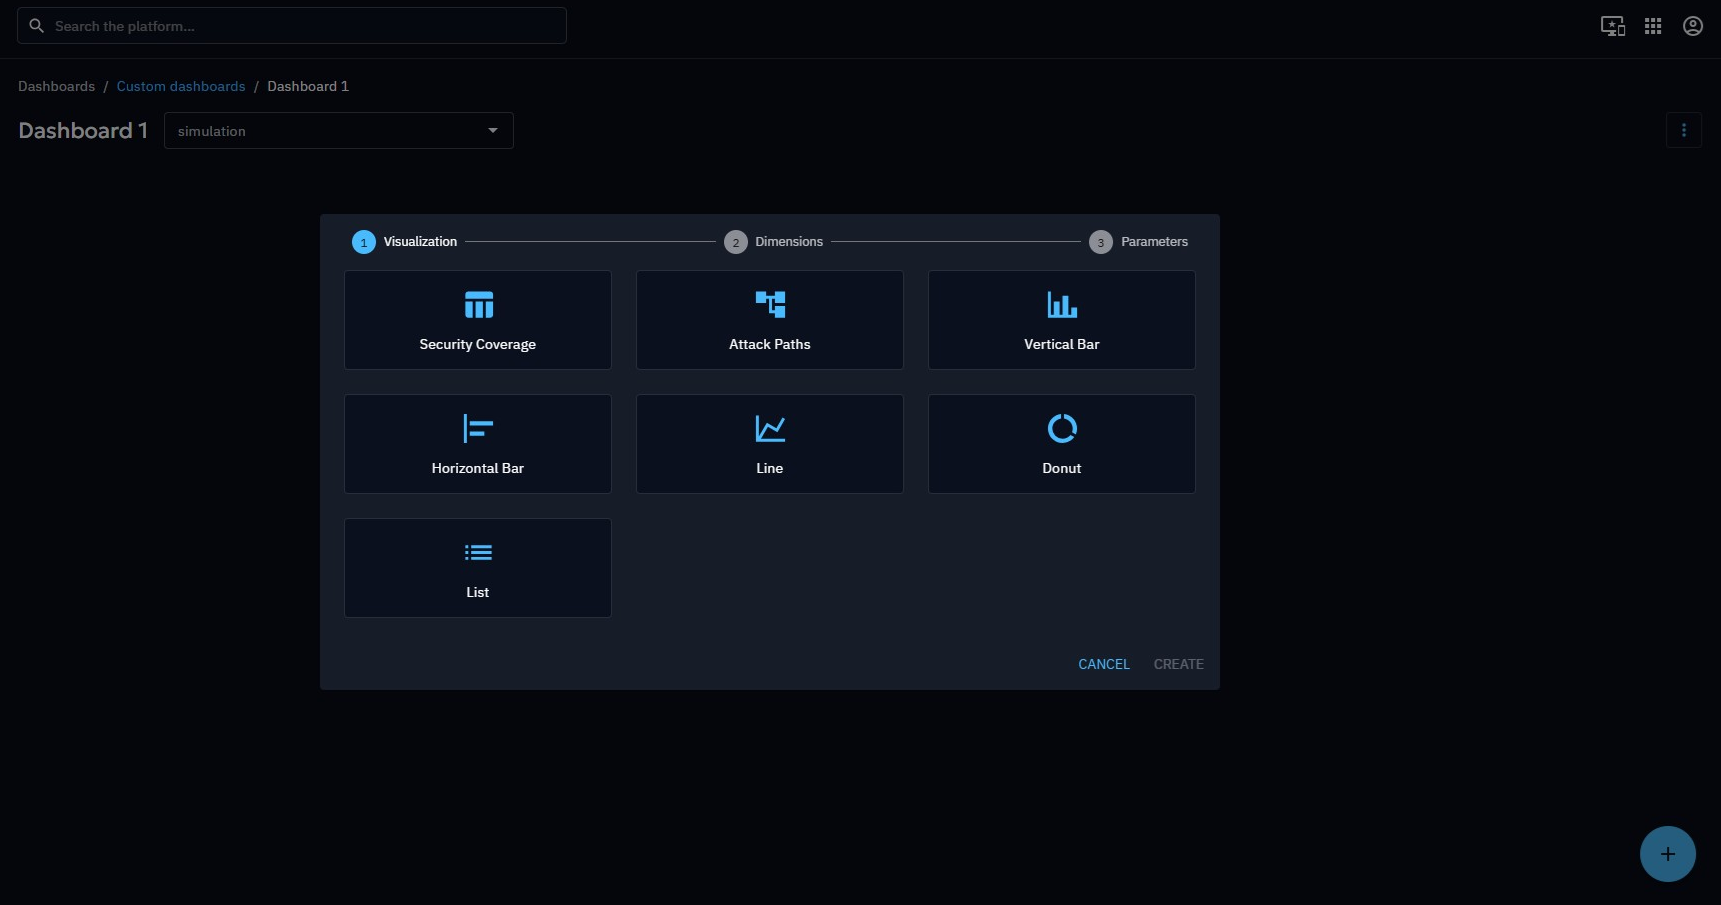
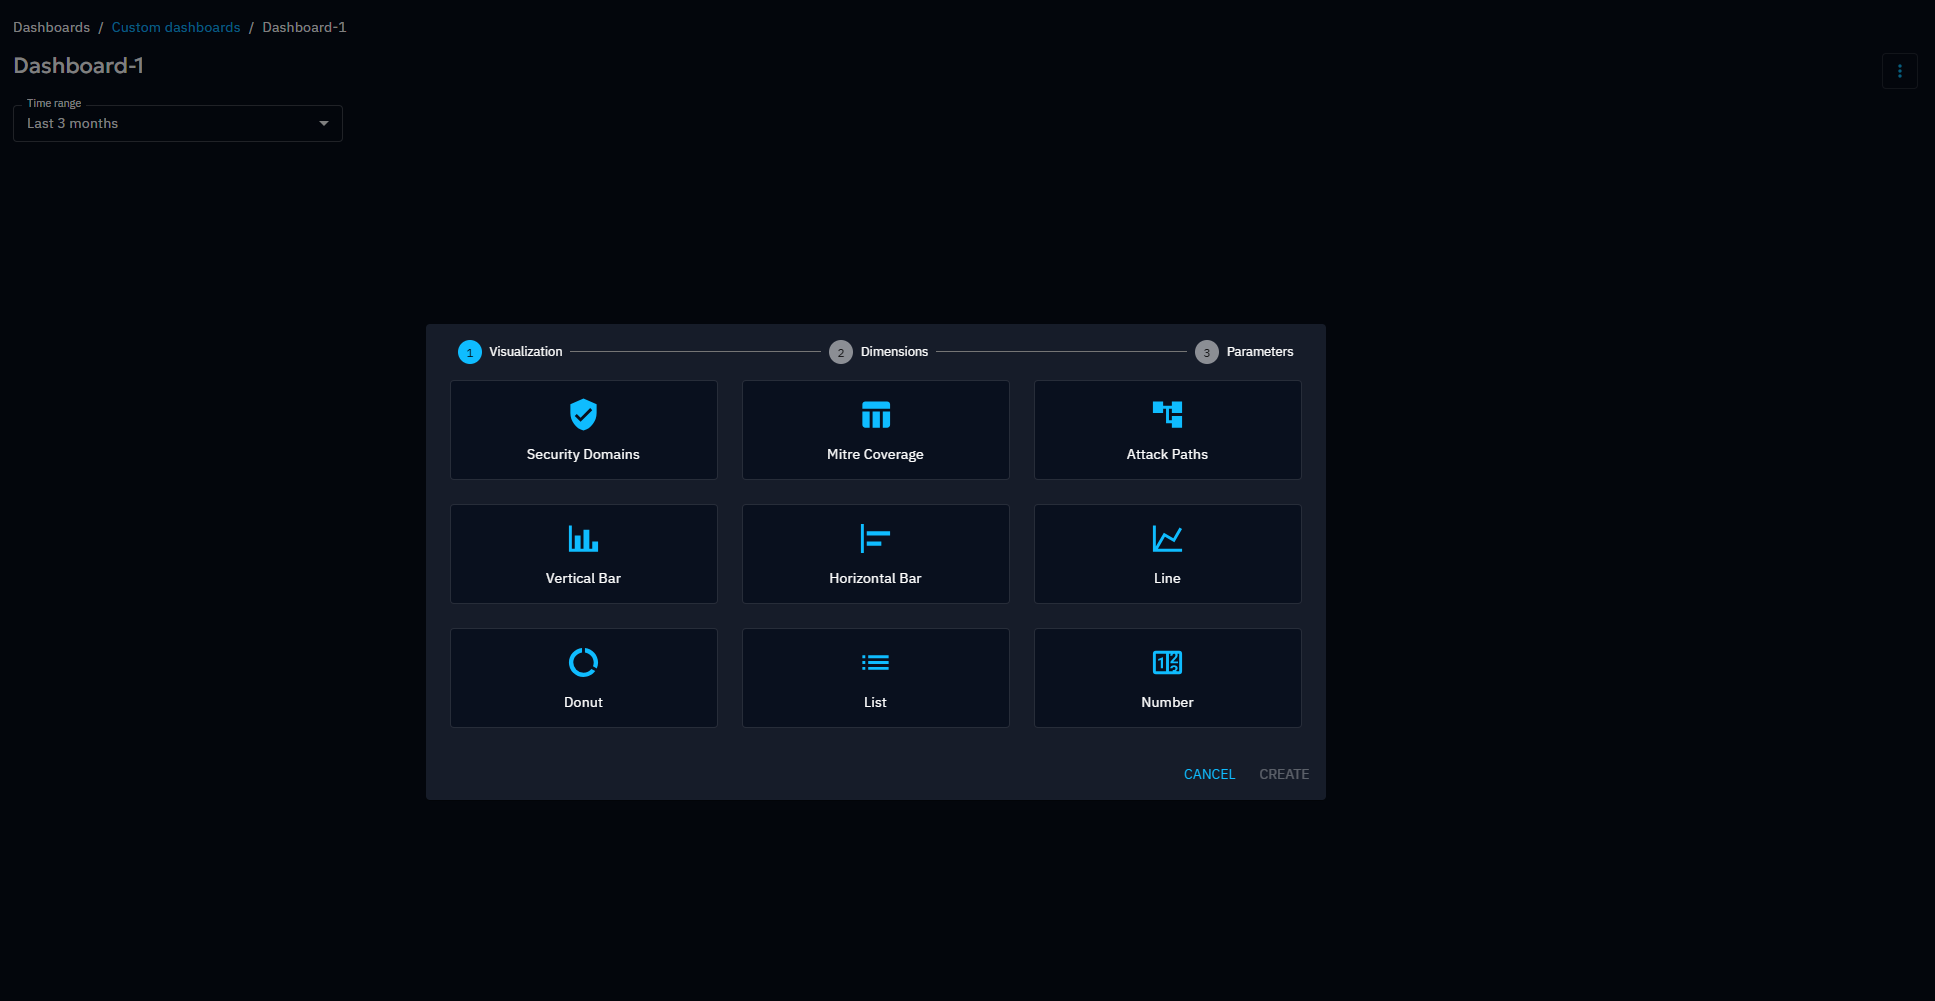
Add domain widget comportment information

diff --git a/docs/usage/security-control-validation.md b/docs/usage/security-control-validation.md
@@ -60,3 +60,21 @@ During these updates:
 - The list of Domains associated with their Payloads is synchronized with the platform
 - If a Domain that should be present, according to the latest Injector or Collector definition, has been removed or modified on the platform, it will be restored to its expected value during the next update
 - Domains that have been manually added by the user, in addition to those defined by the Injector or Collector, are preserved. Only missing Domains are re-added; no user-added Domains are removed
+
+## Security Coverage Visualization
+
+Security Domains are also leveraged to provide a **high-level visualization of security posture** through the **Security Coverage dashboard widget**.
+
+This widget displays a set of icons representing the security Domains (Endpoint, Network, Cloud, etc.) and their associated sub-domains (Prevention, Detection, Vulnerability, Table-Top), enabling users to **quickly assess coverage and identify weaknesses**.
+
+Each sub-domain icon is colored according to the **success rate of its associated expectations**, following a standardized heatmap scale.
+
+The main Domain icon reflects the **aggregated state of the Domain**, applying a strict “worst-case wins” rule: if any sub-domain shows weak coverage, the overall Domain status reflects this risk.
+
+The Security Coverage widget allows users to:
+
+- Visualize overall security coverage across all Domains
+- Filter results by Domain or sub-domain to focus on specific security capabilities
+- Identify coverage gaps and prioritize remediation or further testing
+
+This visualization provides a **clear and actionable entry point** for interpreting OpenAEV results, supporting both operational analysis and higher-level security posture assessment.
